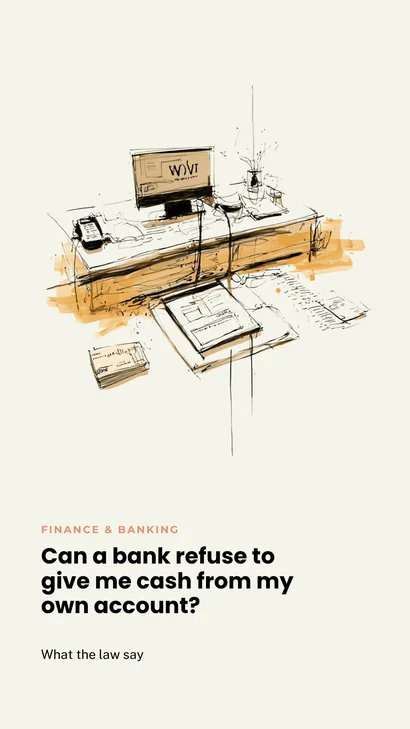
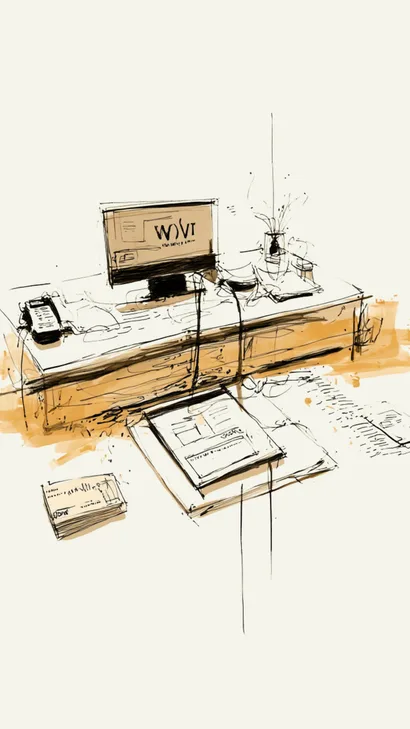
Finance & Banking questions: title-free card images, hero images, real card text
Same treatment as the Flights & Travel, Employment, Crypto & Fintech,
Food & Hospitality, and Training & Education batches, now for Finance &
Banking (5 articles), including the pillar page.

1. Replace the 5 small card images in images/questions/financial-banking/
   with new title-free versions — same filenames, same 1200x2133 dims —
   and regenerate the .webp/-320w.webp/-410w.webp variants from them.

2. Add a dedicated 1600x900 hero image to each of the 5 Finance & Banking
   question articles via the established .q-hero-image class (visible at
   all breakpoints, unlike the sitewide .hero-image which is display:none
   on mobile). One article (can-bank-refuse-give-me-cash-from-own-account)
   uses an older multi-line CSS template than the other four — matched
   that structure so the inserted rule stays consistent with its file.

3. Fix /questions/ index cards (both "all" and "financial-banking" tab
   panels): title and category are now real HTML text
   (<h3 class="q-card-title">, <span class="q-card-category">) below
   each image, reusing the .q-card component from the earlier batches —
   no new CSS needed.

4. Fix the Finance & Banking pillar page (financial-banking.html): applied
   the same .q-card/.q-card-category/.q-card-title structure (wrapping the
   existing <picture>/webp markup) so title/category render as real text
   here too.

Changed region(s): [[0.0, 0.1509, 1.0, 0.8752], [0.0878, 0.8752, 0.3512, 0.9053]]

diff --git a/financial-banking.html b/financial-banking.html
@@ -633,28 +633,49 @@
        zero DOM nodes for them. Not a "Coming soon" message — nothing at all. -->
   <div id="chFutureSections"></div>
 
-  <!-- QUESTIONS — image-only cards, same .q-card-grid/.q-img-card component as
-       questions.html and the other pillar pages. Static (not JS-rendered like
-       Calculators/Cases/Investigations above) since this section, unlike those,
+  <!-- QUESTIONS — image + category + title cards, same .q-card-grid/.q-card
+       component as questions.html and the other pillar pages (title/category
+       are real HTML text, never baked into the image). Static (not JS-rendered
+       like Calculators/Cases/Investigations above) since this section, unlike those,
        isn't meant to silently disappear if empty. -->
   <section aria-labelledby="ch-questions-h2" style="margin-top: 56px;">
     <h2 id="ch-questions-h2" class="cl-hub-cat">Questions</h2>
     <p class="cl-hub-cat-sub">Real questions about bank disputes, fraud, direct debits and card liability — answered with the exact US and UK law that applies. <a href="/questions">See all Questions →</a></p>
     <div class="q-card-grid">
-      <a class="q-img-card" href="/questions/financial-banking/can-bank-ask-me-where-money-came-from">
-        <picture><source srcset="/images/questions/financial-banking/can-bank-ask-me-where-money-came-from-320w.webp 320w, /images/questions/financial-banking/can-bank-ask-me-where-money-came-from-410w.webp 410w, /images/questions/financial-banking/can-bank-ask-me-where-money-came-from.webp 540w" sizes="(min-width: 960px) 265px, (min-width: 640px) 205px, 160px" type="image/webp"><img src="/images/questions/financial-banking/can-bank-ask-me-where-money-came-from.png" alt="Can my bank ask me where my money came from?" loading="lazy" width="1200" height="2133"></picture>
+      <a class="q-card" href="/questions/financial-banking/can-bank-ask-me-where-money-came-from">
+        <div class="q-img-card">
+          <picture><source srcset="/images/questions/financial-banking/can-bank-ask-me-where-money-came-from-320w.webp 320w, /images/questions/financial-banking/can-bank-ask-me-where-money-came-from-410w.webp 410w, /images/questions/financial-banking/can-bank-ask-me-where-money-came-from.webp 540w" sizes="(min-width: 960px) 265px, (min-width: 640px) 205px, 160px" type="image/webp"><img src="/images/questions/financial-banking/can-bank-ask-me-where-money-came-from.png" alt="Can my bank ask me where my money came from?" loading="lazy" width="1200" height="2133"></picture>
+        </div>
+        <span class="q-card-category">Finance &amp; Banking</span>
+        <h3 class="q-card-title">Can my bank ask me where my money came from?</h3>
       </a>
-      <a class="q-img-card" href="/questions/financial-banking/can-bank-refuse-give-me-cash-from-own-account">
-        <picture><source srcset="/images/questions/financial-banking/can-bank-refuse-give-me-cash-from-own-account-320w.webp 320w, /images/questions/financial-banking/can-bank-refuse-give-me-cash-from-own-account-410w.webp 410w, /images/questions/financial-banking/can-bank-refuse-give-me-cash-from-own-account.webp 540w" sizes="(min-width: 960px) 265px, (min-width: 640px) 205px, 160px" type="image/webp"><img src="/images/questions/financial-banking/can-bank-refuse-give-me-cash-from-own-account.png" alt="Can a bank refuse to give me cash from my own account?" loading="lazy" width="1200" height="2133"></picture>
+      <a class="q-card" href="/questions/financial-banking/can-bank-refuse-give-me-cash-from-own-account">
+        <div class="q-img-card">
+          <picture><source srcset="/images/questions/financial-banking/can-bank-refuse-give-me-cash-from-own-account-320w.webp 320w, /images/questions/financial-banking/can-bank-refuse-give-me-cash-from-own-account-410w.webp 410w, /images/questions/financial-banking/can-bank-refuse-give-me-cash-from-own-account.webp 540w" sizes="(min-width: 960px) 265px, (min-width: 640px) 205px, 160px" type="image/webp"><img src="/images/questions/financial-banking/can-bank-refuse-give-me-cash-from-own-account.png" alt="Can a bank refuse to give me cash from my own account?" loading="lazy" width="1200" height="2133"></picture>
+        </div>
+        <span class="q-card-category">Finance &amp; Banking</span>
+        <h3 class="q-card-title">Can a bank refuse to give me cash from my own account?</h3>
       </a>
-      <a class="q-img-card" href="/questions/financial-banking/can-i-cancel-direct-debit-after-money-taken">
-        <picture><source srcset="/images/questions/financial-banking/can-i-cancel-direct-debit-after-money-taken-320w.webp 320w, /images/questions/financial-banking/can-i-cancel-direct-debit-after-money-taken-410w.webp 410w, /images/questions/financial-banking/can-i-cancel-direct-debit-after-money-taken.webp 540w" sizes="(min-width: 960px) 265px, (min-width: 640px) 205px, 160px" type="image/webp"><img src="/images/questions/financial-banking/can-i-cancel-direct-debit-after-money-taken.png" alt="Can I cancel a direct debit after money has already been taken?" loading="lazy" width="1200" height="2133"></picture>
+      <a class="q-card" href="/questions/financial-banking/can-i-cancel-direct-debit-after-money-taken">
+        <div class="q-img-card">
+          <picture><source srcset="/images/questions/financial-banking/can-i-cancel-direct-debit-after-money-taken-320w.webp 320w, /images/questions/financial-banking/can-i-cancel-direct-debit-after-money-taken-410w.webp 410w, /images/questions/financial-banking/can-i-cancel-direct-debit-after-money-taken.webp 540w" sizes="(min-width: 960px) 265px, (min-width: 640px) 205px, 160px" type="image/webp"><img src="/images/questions/financial-banking/can-i-cancel-direct-debit-after-money-taken.png" alt="Can I cancel a direct debit after money has already been taken?" loading="lazy" width="1200" height="2133"></picture>
+        </div>
+        <span class="q-card-category">Finance &amp; Banking</span>
+        <h3 class="q-card-title">Can I cancel a direct debit after money has already been taken?</h3>
       </a>
-      <a class="q-img-card" href="/questions/financial-banking/what-happens-money-transferred-into-account-by-mistake">
-        <picture><source srcset="/images/questions/financial-banking/what-happens-money-transferred-into-account-by-mistake-320w.webp 320w, /images/questions/financial-banking/what-happens-money-transferred-into-account-by-mistake-410w.webp 410w, /images/questions/financial-banking/what-happens-money-transferred-into-account-by-mistake.webp 540w" sizes="(min-width: 960px) 265px, (min-width: 640px) 205px, 160px" type="image/webp"><img src="/images/questions/financial-banking/what-happens-money-transferred-into-account-by-mistake.png" alt="What happens if someone transfers money into my account by mistake?" loading="lazy" width="1200" height="2133"></picture>
+      <a class="q-card" href="/questions/financial-banking/what-happens-money-transferred-into-account-by-mistake">
+        <div class="q-img-card">
+          <picture><source srcset="/images/questions/financial-banking/what-happens-money-transferred-into-account-by-mistake-320w.webp 320w, /images/questions/financial-banking/what-happens-money-transferred-into-account-by-mistake-410w.webp 410w, /images/questions/financial-banking/what-happens-money-transferred-into-account-by-mistake.webp 540w" sizes="(min-width: 960px) 265px, (min-width: 640px) 205px, 160px" type="image/webp"><img src="/images/questions/financial-banking/what-happens-money-transferred-into-account-by-mistake.png" alt="What happens if someone transfers money into my account by mistake?" loading="lazy" width="1200" height="2133"></picture>
+        </div>
+        <span class="q-card-category">Finance &amp; Banking</span>
+        <h3 class="q-card-title">What happens if someone transfers money into my account by mistake?</h3>
       </a>
-      <a class="q-img-card" href="/questions/financial-banking/who-pays-someone-uses-card-without-permission">
-        <picture><source srcset="/images/questions/financial-banking/who-pays-someone-uses-card-without-permission-320w.webp 320w, /images/questions/financial-banking/who-pays-someone-uses-card-without-permission-410w.webp 410w, /images/questions/financial-banking/who-pays-someone-uses-card-without-permission.webp 540w" sizes="(min-width: 960px) 265px, (min-width: 640px) 205px, 160px" type="image/webp"><img src="/images/questions/financial-banking/who-pays-someone-uses-card-without-permission.png" alt="Who pays if someone uses my card without permission?" loading="lazy" width="1200" height="2133"></picture>
+      <a class="q-card" href="/questions/financial-banking/who-pays-someone-uses-card-without-permission">
+        <div class="q-img-card">
+          <picture><source srcset="/images/questions/financial-banking/who-pays-someone-uses-card-without-permission-320w.webp 320w, /images/questions/financial-banking/who-pays-someone-uses-card-without-permission-410w.webp 410w, /images/questions/financial-banking/who-pays-someone-uses-card-without-permission.webp 540w" sizes="(min-width: 960px) 265px, (min-width: 640px) 205px, 160px" type="image/webp"><img src="/images/questions/financial-banking/who-pays-someone-uses-card-without-permission.png" alt="Who pays if someone uses my card without permission?" loading="lazy" width="1200" height="2133"></picture>
+        </div>
+        <span class="q-card-category">Finance &amp; Banking</span>
+        <h3 class="q-card-title">Who pays if someone uses my card without permission?</h3>
       </a>
     </div>
   </section>

diff --git a/questions.html b/questions.html
@@ -496,20 +496,40 @@
           <span class="q-card-category">Training &amp; Education</span>
           <h3 class="q-card-title">Can I cancel an education course after it has started?</h3>
         </a>
-        <a class="q-img-card" href="/questions/financial-banking/can-bank-ask-me-where-money-came-from">
-          <img src="/images/questions/financial-banking/can-bank-ask-me-where-money-came-from.png" alt="Can my bank ask me where my money came from?" loading="lazy" width="1200" height="2133">
+        <a class="q-card" href="/questions/financial-banking/can-bank-ask-me-where-money-came-from">
+          <div class="q-img-card">
+            <img src="/images/questions/financial-banking/can-bank-ask-me-where-money-came-from.png" alt="Can my bank ask me where my money came from?" loading="lazy" width="1200" height="2133">
+          </div>
+          <span class="q-card-category">Finance &amp; Banking</span>
+          <h3 class="q-card-title">Can my bank ask me where my money came from?</h3>
         </a>
-        <a class="q-img-card" href="/questions/financial-banking/can-bank-refuse-give-me-cash-from-own-account">
-          <img src="/images/questions/financial-banking/can-bank-refuse-give-me-cash-from-own-account.png" alt="Can a bank refuse to give me cash from my own account?" loading="lazy" width="1200" height="2133">
+        <a class="q-card" href="/questions/financial-banking/can-bank-refuse-give-me-cash-from-own-account">
+          <div class="q-img-card">
+            <img src="/images/questions/financial-banking/can-bank-refuse-give-me-cash-from-own-account.png" alt="Can a bank refuse to give me cash from my own account?" loading="lazy" width="1200" height="2133">
+          </div>
+          <span class="q-card-category">Finance &amp; Banking</span>
+          <h3 class="q-card-title">Can a bank refuse to give me cash from my own account?</h3>
         </a>
-        <a class="q-img-card" href="/questions/financial-banking/can-i-cancel-direct-debit-after-money-taken">
-          <img src="/images/questions/financial-banking/can-i-cancel-direct-debit-after-money-taken.png" alt="Can I cancel a direct debit after money has already been taken?" loading="lazy" width="1200" height="2133">
+        <a class="q-card" href="/questions/financial-banking/can-i-cancel-direct-debit-after-money-taken">
+          <div class="q-img-card">
+            <img src="/images/questions/financial-banking/can-i-cancel-direct-debit-after-money-taken.png" alt="Can I cancel a direct debit after money has already been taken?" loading="lazy" width="1200" height="2133">
+          </div>
+          <span class="q-card-category">Finance &amp; Banking</span>
+          <h3 class="q-card-title">Can I cancel a direct debit after money has already been taken?</h3>
         </a>
-        <a class="q-img-card" href="/questions/financial-banking/what-happens-money-transferred-into-account-by-mistake">
-          <img src="/images/questions/financial-banking/what-happens-money-transferred-into-account-by-mistake.png" alt="What happens if someone transfers money into my account by mistake?" loading="lazy" width="1200" height="2133">
+        <a class="q-card" href="/questions/financial-banking/what-happens-money-transferred-into-account-by-mistake">
+          <div class="q-img-card">
+            <img src="/images/questions/financial-banking/what-happens-money-transferred-into-account-by-mistake.png" alt="What happens if someone transfers money into my account by mistake?" loading="lazy" width="1200" height="2133">
+          </div>
+          <span class="q-card-category">Finance &amp; Banking</span>
+          <h3 class="q-card-title">What happens if someone transfers money into my account by mistake?</h3>
         </a>
-        <a class="q-img-card" href="/questions/financial-banking/who-pays-someone-uses-card-without-permission">
-          <img src="/images/questions/financial-banking/who-pays-someone-uses-card-without-permission.png" alt="Who pays if someone uses my card without permission?" loading="lazy" width="1200" height="2133">
+        <a class="q-card" href="/questions/financial-banking/who-pays-someone-uses-card-without-permission">
+          <div class="q-img-card">
+            <img src="/images/questions/financial-banking/who-pays-someone-uses-card-without-permission.png" alt="Who pays if someone uses my card without permission?" loading="lazy" width="1200" height="2133">
+          </div>
+          <span class="q-card-category">Finance &amp; Banking</span>
+          <h3 class="q-card-title">Who pays if someone uses my card without permission?</h3>
         </a>
         <a class="q-img-card" href="/questions/healthcare-medical/can-clinic-charge-me-appointment-i-cancelled">
           <img src="/images/questions/healthcare-medical/can-clinic-charge-me-appointment-i-cancelled.png" alt="Can a private clinic charge me for an appointment I cancelled?" loading="lazy" width="1200" height="2133">
@@ -761,20 +781,40 @@
 
     <div class="qh-tool-panel" data-toolpanel="financial-banking">
       <div class="q-card-grid">
-        <a class="q-img-card" href="/questions/financial-banking/can-bank-ask-me-where-money-came-from">
-          <img src="/images/questions/financial-banking/can-bank-ask-me-where-money-came-from.png" alt="Can my bank ask me where my money came from?" loading="lazy" width="1200" height="2133">
+        <a class="q-card" href="/questions/financial-banking/can-bank-ask-me-where-money-came-from">
+          <div class="q-img-card">
+            <img src="/images/questions/financial-banking/can-bank-ask-me-where-money-came-from.png" alt="Can my bank ask me where my money came from?" loading="lazy" width="1200" height="2133">
+          </div>
+          <span class="q-card-category">Finance &amp; Banking</span>
+          <h3 class="q-card-title">Can my bank ask me where my money came from?</h3>
         </a>
-        <a class="q-img-card" href="/questions/financial-banking/can-bank-refuse-give-me-cash-from-own-account">
-          <img src="/images/questions/financial-banking/can-bank-refuse-give-me-cash-from-own-account.png" alt="Can a bank refuse to give me cash from my own account?" loading="lazy" width="1200" height="2133">
+        <a class="q-card" href="/questions/financial-banking/can-bank-refuse-give-me-cash-from-own-account">
+          <div class="q-img-card">
+            <img src="/images/questions/financial-banking/can-bank-refuse-give-me-cash-from-own-account.png" alt="Can a bank refuse to give me cash from my own account?" loading="lazy" width="1200" height="2133">
+          </div>
+          <span class="q-card-category">Finance &amp; Banking</span>
+          <h3 class="q-card-title">Can a bank refuse to give me cash from my own account?</h3>
         </a>
-        <a class="q-img-card" href="/questions/financial-banking/can-i-cancel-direct-debit-after-money-taken">
-          <img src="/images/questions/financial-banking/can-i-cancel-direct-debit-after-money-taken.png" alt="Can I cancel a direct debit after money has already been taken?" loading="lazy" width="1200" height="2133">
+        <a class="q-card" href="/questions/financial-banking/can-i-cancel-direct-debit-after-money-taken">
+          <div class="q-img-card">
+            <img src="/images/questions/financial-banking/can-i-cancel-direct-debit-after-money-taken.png" alt="Can I cancel a direct debit after money has already been taken?" loading="lazy" width="1200" height="2133">
+          </div>
+          <span class="q-card-category">Finance &amp; Banking</span>
+          <h3 class="q-card-title">Can I cancel a direct debit after money has already been taken?</h3>
         </a>
-        <a class="q-img-card" href="/questions/financial-banking/what-happens-money-transferred-into-account-by-mistake">
-          <img src="/images/questions/financial-banking/what-happens-money-transferred-into-account-by-mistake.png" alt="What happens if someone transfers money into my account by mistake?" loading="lazy" width="1200" height="2133">
+        <a class="q-card" href="/questions/financial-banking/what-happens-money-transferred-into-account-by-mistake">
+          <div class="q-img-card">
+            <img src="/images/questions/financial-banking/what-happens-money-transferred-into-account-by-mistake.png" alt="What happens if someone transfers money into my account by mistake?" loading="lazy" width="1200" height="2133">
+          </div>
+          <span class="q-card-category">Finance &amp; Banking</span>
+          <h3 class="q-card-title">What happens if someone transfers money into my account by mistake?</h3>
         </a>
-        <a class="q-img-card" href="/questions/financial-banking/who-pays-someone-uses-card-without-permission">
-          <img src="/images/questions/financial-banking/who-pays-someone-uses-card-without-permission.png" alt="Who pays if someone uses my card without permission?" loading="lazy" width="1200" height="2133">
+        <a class="q-card" href="/questions/financial-banking/who-pays-someone-uses-card-without-permission">
+          <div class="q-img-card">
+            <img src="/images/questions/financial-banking/who-pays-someone-uses-card-without-permission.png" alt="Who pays if someone uses my card without permission?" loading="lazy" width="1200" height="2133">
+          </div>
+          <span class="q-card-category">Finance &amp; Banking</span>
+          <h3 class="q-card-title">Who pays if someone uses my card without permission?</h3>
         </a>
       </div>
     </div>

diff --git a/questions/financial-banking/can-i-cancel-direct-debit-after-money-taken.html b/questions/financial-banking/can-i-cancel-direct-debit-after-money-taken.html
@@ -117,6 +117,8 @@
   .wrap { max-width: 760px; margin: 0 auto; padding: 0 24px; }
   .q-header { padding: 56px 0 32px; }
   .q-category { display: inline-block; font-family: var(--font-sans); font-size: 13px; font-weight: 700; letter-spacing: 1.2px; text-transform: uppercase; color: var(--accent-terra); margin-bottom: 18px; }
+  /* Visible at ALL breakpoints, unlike the sitewide .hero-image class (display:none on mobile). */
+  .q-hero-image { display: block; width: 100%; max-width: 100%; height: auto; border-radius: 12px; margin: 0 0 24px; }
   .q-header h1 { font-family: var(--font-serif); font-size: 38px; font-weight: 800; line-height: 1.2; margin-bottom: 18px; }
   .q-dek { font-size: 18px; color: var(--text-secondary); max-width: 620px; }
   .q-meta { display: flex; gap: 18px; margin-top: 22px; font-size: 13px; color: var(--text-secondary); }
@@ -359,6 +361,7 @@
 
   <header class="q-header">
     <span class="q-category">Finance &amp; Banking · US &amp; UK</span>
+    <img class="q-hero-image" src="/images/questions/financial-banking/can-i-cancel-direct-debit-after-money-taken-hero.png" width="1600" height="900" alt="Can I cancel a direct debit after money has already been taken?" loading="eager" fetchpriority="high">
     <h1>Can I cancel a direct debit after money has already been taken?</h1>
     <p class="q-dek">Cancelling stops what's coming next. Getting back what's already gone is a separate right — and it's stronger than most people realize.</p>
     <div class="q-meta">

diff --git a/questions/financial-banking/what-happens-money-transferred-into-account-by-mistake.html b/questions/financial-banking/what-happens-money-transferred-into-account-by-mistake.html
@@ -117,6 +117,8 @@
   .wrap { max-width: 760px; margin: 0 auto; padding: 0 24px; }
   .q-header { padding: 56px 0 32px; }
   .q-category { display: inline-block; font-family: var(--font-sans); font-size: 13px; font-weight: 700; letter-spacing: 1.2px; text-transform: uppercase; color: var(--accent-terra); margin-bottom: 18px; }
+  /* Visible at ALL breakpoints, unlike the sitewide .hero-image class (display:none on mobile). */
+  .q-hero-image { display: block; width: 100%; max-width: 100%; height: auto; border-radius: 12px; margin: 0 0 24px; }
   .q-header h1 { font-family: var(--font-serif); font-size: 38px; font-weight: 800; line-height: 1.2; margin-bottom: 18px; }
   .q-dek { font-size: 18px; color: var(--text-secondary); max-width: 620px; }
   .q-meta { display: flex; gap: 18px; margin-top: 22px; font-size: 13px; color: var(--text-secondary); }
@@ -359,6 +361,7 @@
 
   <header class="q-header">
     <span class="q-category">Finance &amp; Banking · US &amp; UK</span>
+    <img class="q-hero-image" src="/images/questions/financial-banking/what-happens-money-transferred-into-account-by-mistake-hero.png" width="1600" height="900" alt="What happens if someone transfers money into my account by mistake?" loading="eager" fetchpriority="high">
     <h1>What happens if someone transfers money into my account by mistake?</h1>
     <p class="q-dek">An unexpected deposit can feel like good news for about a day — then it becomes a legal obligation, not a windfall.</p>
     <div class="q-meta">

diff --git a/questions/financial-banking/can-bank-ask-me-where-money-came-from.html b/questions/financial-banking/can-bank-ask-me-where-money-came-from.html
@@ -117,6 +117,8 @@
   .wrap { max-width: 760px; margin: 0 auto; padding: 0 24px; }
   .q-header { padding: 56px 0 32px; }
   .q-category { display: inline-block; font-family: var(--font-sans); font-size: 13px; font-weight: 700; letter-spacing: 1.2px; text-transform: uppercase; color: var(--accent-terra); margin-bottom: 18px; }
+  /* Visible at ALL breakpoints, unlike the sitewide .hero-image class (display:none on mobile). */
+  .q-hero-image { display: block; width: 100%; max-width: 100%; height: auto; border-radius: 12px; margin: 0 0 24px; }
   .q-header h1 { font-family: var(--font-serif); font-size: 38px; font-weight: 800; line-height: 1.2; margin-bottom: 18px; }
   .q-dek { font-size: 18px; color: var(--text-secondary); max-width: 620px; }
   .q-meta { display: flex; gap: 18px; margin-top: 22px; font-size: 13px; color: var(--text-secondary); }
@@ -359,6 +361,7 @@
 
   <header class="q-header">
     <span class="q-category">Finance &amp; Banking · US &amp; UK</span>
+    <img class="q-hero-image" src="/images/questions/financial-banking/can-bank-ask-me-where-money-came-from-hero.png" width="1600" height="900" alt="Can my bank ask me where my money came from?" loading="eager" fetchpriority="high">
     <h1>Can my bank ask me where my money came from?</h1>
     <p class="q-dek">It can feel intrusive, but the question isn't optional curiosity — it's a legal box your bank has to tick before it can let the transaction through.</p>
     <div class="q-meta">

diff --git a/questions/financial-banking/who-pays-someone-uses-card-without-permission.html b/questions/financial-banking/who-pays-someone-uses-card-without-permission.html
@@ -117,6 +117,8 @@
   .wrap { max-width: 760px; margin: 0 auto; padding: 0 24px; }
   .q-header { padding: 56px 0 32px; }
   .q-category { display: inline-block; font-family: var(--font-sans); font-size: 13px; font-weight: 700; letter-spacing: 1.2px; text-transform: uppercase; color: var(--accent-terra); margin-bottom: 18px; }
+  /* Visible at ALL breakpoints, unlike the sitewide .hero-image class (display:none on mobile). */
+  .q-hero-image { display: block; width: 100%; max-width: 100%; height: auto; border-radius: 12px; margin: 0 0 24px; }
   .q-header h1 { font-family: var(--font-serif); font-size: 38px; font-weight: 800; line-height: 1.2; margin-bottom: 18px; }
   .q-dek { font-size: 18px; color: var(--text-secondary); max-width: 620px; }
   .q-meta { display: flex; gap: 18px; margin-top: 22px; font-size: 13px; color: var(--text-secondary); }
@@ -359,6 +361,7 @@
 
   <header class="q-header">
     <span class="q-category">Finance &amp; Banking · US &amp; UK</span>
+    <img class="q-hero-image" src="/images/questions/financial-banking/who-pays-someone-uses-card-without-permission-hero.png" width="1600" height="900" alt="Who pays if someone uses my card without permission?" loading="eager" fetchpriority="high">
     <h1>Who pays if someone uses my card without permission?</h1>
     <p class="q-dek">The number that decides how much this costs you isn't the fraud amount — it's how many hours pass before you report it.</p>
     <div class="q-meta">

diff --git a/questions/financial-banking/can-bank-refuse-give-me-cash-from-own-account.html b/questions/financial-banking/can-bank-refuse-give-me-cash-from-own-account.html
@@ -143,6 +143,15 @@
     color: var(--accent-terra);
     margin-bottom: 18px;
   }
+  /* Visible at ALL breakpoints, unlike the sitewide .hero-image class (display:none on mobile). */
+  .q-hero-image {
+    display: block;
+    width: 100%;
+    max-width: 100%;
+    height: auto;
+    border-radius: 12px;
+    margin: 0 0 24px;
+  }
   .q-header h1 {
     font-family: var(--font-serif);
     font-size: 38px;
@@ -478,6 +487,7 @@
 
   <header class="q-header">
     <span class="q-category">Finance &amp; Banking · US &amp; UK</span>
+    <img class="q-hero-image" src="/images/questions/financial-banking/can-bank-refuse-give-me-cash-from-own-account-hero.png" width="1600" height="900" alt="Can a bank refuse to give me cash from my own account?" loading="eager" fetchpriority="high">
     <h1>Can a bank refuse to give me cash from my own account?</h1>
     <p class="q-dek">It's your money — but "your money" and "instant, no-questions-asked access to it" turn out to be two different legal ideas.</p>
     <div class="q-meta">
